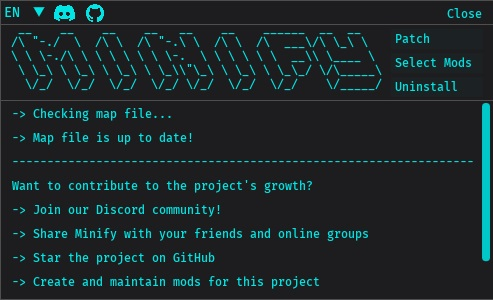
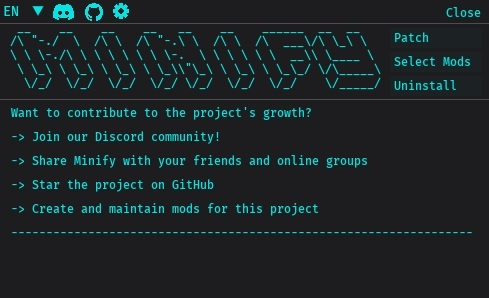
-

diff --git a/imgui.py b/imgui.py
@@ -722,18 +722,16 @@ def version_check():
 
 
 def start_text():
-    ui.add_text(
-        default_value="------------------------------------------------------------------",
-        parent="terminal_window",
-        tag="spacer_start_text_tag",
-    )
     ui.add_text(source="start_text_1_var", parent="terminal_window")
     ui.add_text(source="start_text_2_var", parent="terminal_window")
     ui.add_text(source="start_text_3_var", parent="terminal_window")
     ui.add_text(source="start_text_4_var", parent="terminal_window")
     ui.add_text(source="start_text_5_var", parent="terminal_window")
-    ui.add_text(default_value="", parent="terminal_window")
-    ui.add_text(default_value="", parent="terminal_window")
+    ui.add_text(
+        default_value="------------------------------------------------------------------",
+        parent="terminal_window",
+        tag="spacer_start_text_tag",
+    )
     helper.scroll_to_terminal_end()
 
 
@@ -1022,6 +1020,7 @@ def configure_uninstall_popup():
 def create_base_ui():
     helper.get_available_localizations()
     create_ui()
+    start_text()
     theme()
     helper.change_localization(init=True)
     version_check()
@@ -1038,7 +1037,6 @@ def initiate_conditionals():
     load_state_checkboxes_thread.join()
     create_checkboxes()
     setupButtonState()
-    start_text()
 
 
 # Adding font to the ui registry
@@ -1057,10 +1055,10 @@ with ui.handler_registry():
     ui.add_key_release_handler(0x20E, callback=close_active_window)
 
 width_discord, height_discord, channels_discord, data_discord = ui.load_image(
-    os.path.join(mpaths.img_dir, "Discord-Symbol-White.png")
+    os.path.join(mpaths.img_dir, "Discord.png")
 )
 
-width_git, height_git, channels_git, data_git = ui.load_image(os.path.join(mpaths.img_dir, "github-mark-white.png"))
+width_git, height_git, channels_git, data_git = ui.load_image(os.path.join(mpaths.img_dir, "github.png"))
 
 width_dev, height_dev, channels_dev, data_dev = ui.load_image(os.path.join(mpaths.img_dir, "cog-wheel.png"))
 
